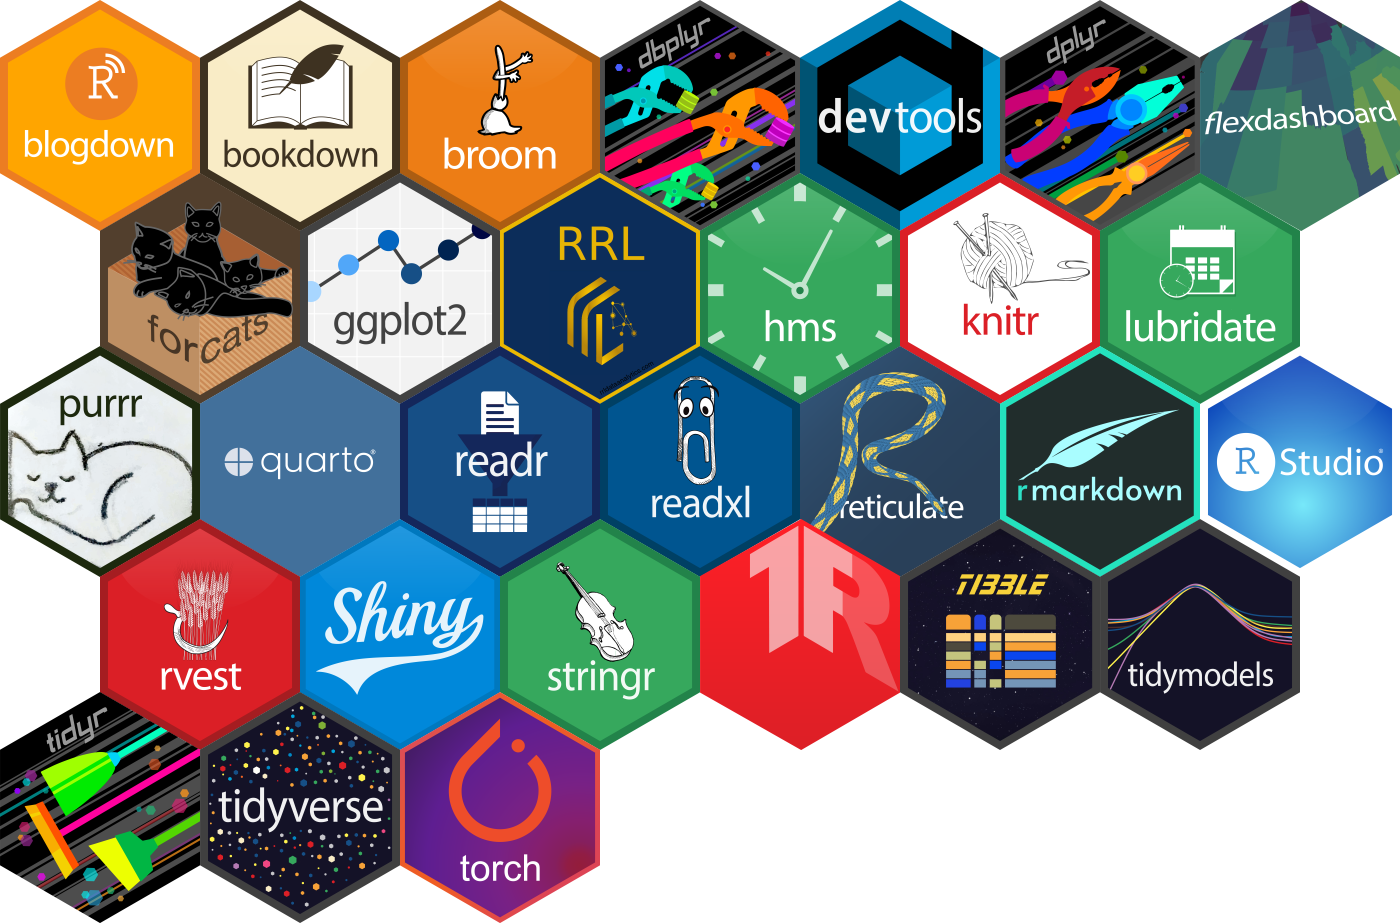
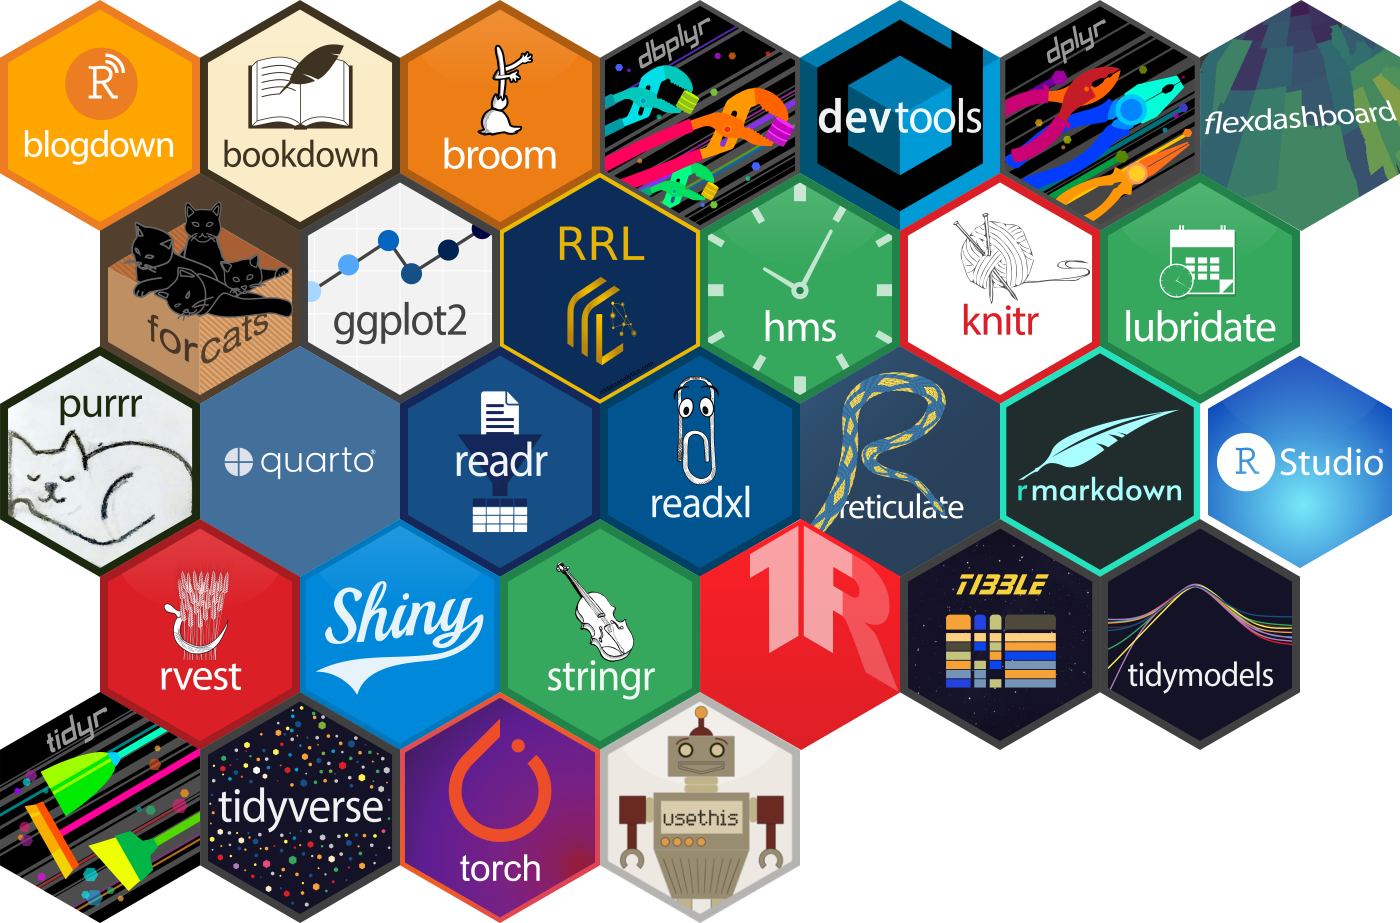
dont know

Changed region(s): [[0.43, 0.7281, 0.5836, 1.0]]

diff --git a/_book/projects_creation.html b/_book/projects_creation.html
@@ -7,7 +7,7 @@
 <meta name="viewport" content="width=device-width, initial-scale=1.0, user-scalable=yes">
 
 
-<title>5&nbsp; projects_creation – my_book_again</title>
+<title>5&nbsp; Creating Projects – my_book_again</title>
 <style>
 code{white-space: pre-wrap;}
 span.smallcaps{font-variant: small-caps;}
@@ -221,15 +221,24 @@ ul.task-list li input[type="checkbox"] {
 </nav>
 <div id="quarto-sidebar-glass" class="quarto-sidebar-collapse-item" data-bs-toggle="collapse" data-bs-target=".quarto-sidebar-collapse-item"></div>
 <!-- margin-sidebar -->
-    <div id="quarto-margin-sidebar" class="sidebar margin-sidebar zindex-bottom">
-        
+    <div id="quarto-margin-sidebar" class="sidebar margin-sidebar">
+        <nav id="TOC" role="doc-toc" class="toc-active">
+    <h2 id="toc-title">Table of contents</h2>
+   
+  <ul>
+  <li><a href="#creating-a-new-project" id="toc-creating-a-new-project" class="nav-link active" data-scroll-target="#creating-a-new-project">Creating a New Project</a></li>
+  <li><a href="#setting-up-version-control-with-git" id="toc-setting-up-version-control-with-git" class="nav-link" data-scroll-target="#setting-up-version-control-with-git">Setting Up Version Control with Git</a></li>
+  <li><a href="#add-starting-files" id="toc-add-starting-files" class="nav-link" data-scroll-target="#add-starting-files">add starting files</a></li>
+  <li><a href="#add-data-folder" id="toc-add-data-folder" class="nav-link" data-scroll-target="#add-data-folder">add data folder</a></li>
+  </ul>
+</nav>
     </div>
 <!-- main -->
 <main class="content" id="quarto-document-content">
 
 <header id="title-block-header" class="quarto-title-block default"><nav class="quarto-page-breadcrumbs quarto-title-breadcrumbs d-none d-lg-block" aria-label="breadcrumb"><ol class="breadcrumb"><li class="breadcrumb-item"><a href="./projects_creation.html">Projects</a></li><li class="breadcrumb-item"><a href="./projects_creation.html"><span class="chapter-number">5</span>&nbsp; <span class="chapter-title">projects_creation</span></a></li></ol></nav>
 <div class="quarto-title">
-<h1 class="title"><span class="chapter-number">5</span>&nbsp; <span class="chapter-title">projects_creation</span></h1>
+<h1 class="title"><span class="chapter-number">5</span>&nbsp; <span class="chapter-title">Creating Projects</span></h1>
 </div>
 
 
@@ -246,8 +255,26 @@ ul.task-list li input[type="checkbox"] {
 </header>
 
 
+<section id="creating-a-new-project" class="level3">
+<h3 class="anchored" data-anchor-id="creating-a-new-project">Creating a New Project</h3>
+<p>To create a new project, follow these steps: Make this your working directory: ~/Documents/r-studio-and-git</p>
+<p>In console: library(usethis)</p>
+<p>usethis::create_project(“~/Documents/r-studio-and-git/YOUR-PROJECT-NAME”) This will create a new directory for your project and open it in RStudio. It will also create a default R project file (.Rproj) for you. It will also create a readme file for you. It will also create a .gitignore file for you.</p>
+</section>
+<section id="setting-up-version-control-with-git" class="level3">
+<h3 class="anchored" data-anchor-id="setting-up-version-control-with-git">Setting Up Version Control with Git</h3>
+<p>To set up version control with Git for your new project, follow these steps: In console: usethis::use_git() This will initialize a Git repository in your project directory. It will also create a .git directory to track changes. It will also make an initial commit with the existing files in your project. ### Connecting to GitHub To connect your local Git repository to a remote repository on GitHub, follow these steps: First, create a new repository on GitHub without a README, .gitignore, or license. Then, in console: usethis::use_github() This will create a new repository on GitHub and link it to your local Git repository. It will also push your initial commit to the remote repository on GitHub. ### Summary You have now created a new R project, set up version control with Git, and connected it to a remote repository on GitHub. You can now start working on your project and use Git to track changes and collaborate with others.</p>
+</section>
+<section id="add-starting-files" class="level3">
+<h3 class="anchored" data-anchor-id="add-starting-files">add starting files</h3>
+<p>usethis::use_r(“import”) # for R scripts under “R” folder usethis::use_r(“tidy”) # for R scripts under “R” folder</p>
+</section>
+<section id="add-data-folder" class="level3">
+<h3 class="anchored" data-anchor-id="add-data-folder">add data folder</h3>
+<p>usethis::use_data_raw() # for raw data under “data-raw” usethis::use_directory(“DATA”) # for processed data under “data”</p>
 
 
+</section>
 
 </main> <!-- /main -->
 <script id="quarto-html-after-body" type="application/javascript">
